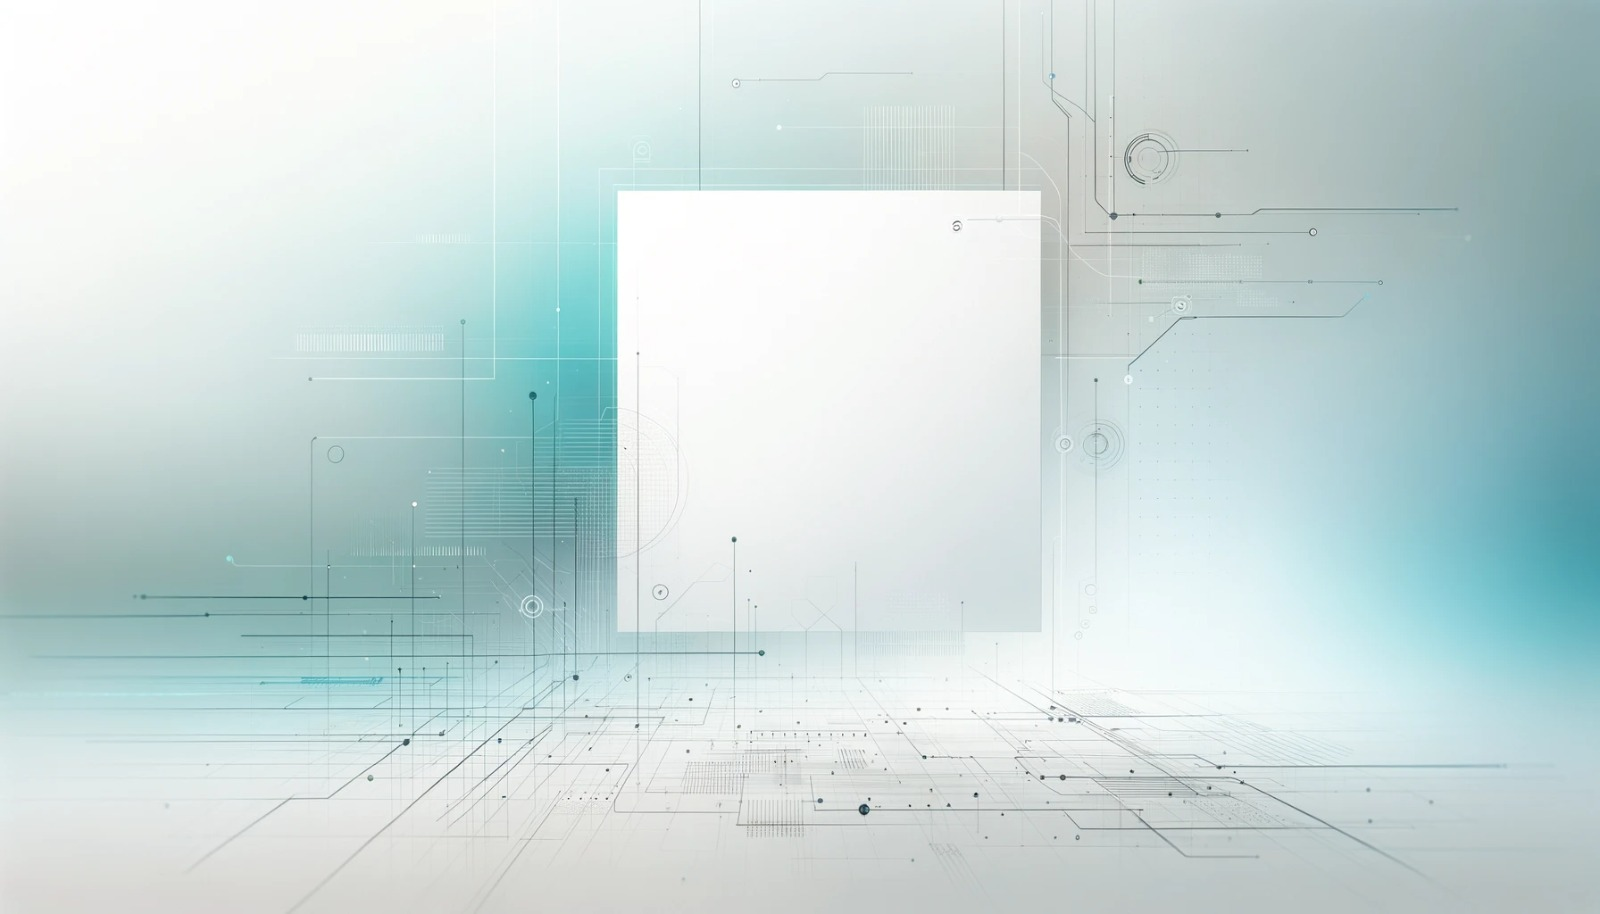
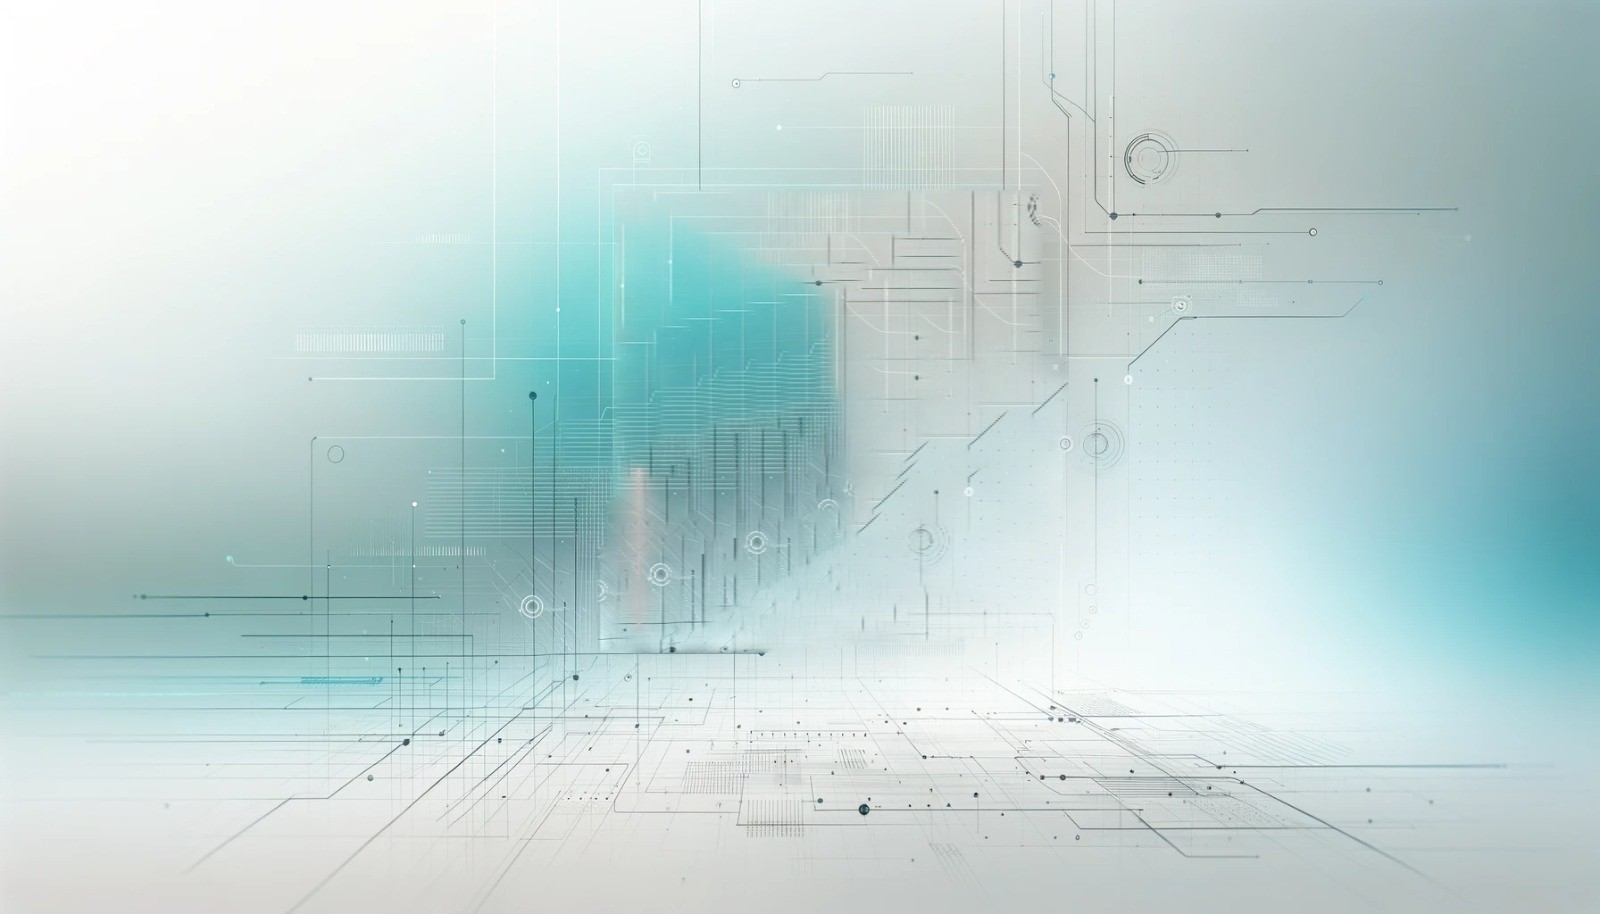
New images and color theme
Made sure every color is coherent with the theme and added new images such as new profile picture and home background.

Changed region(s): [[0.375, 0.1838, 0.6562, 0.7046]]

diff --git a/css/style.css b/css/style.css
@@ -112,7 +112,7 @@ p{
     display: block;
     height: 2px;
     width: 25px;
-    background-color: rgb(255, 102, 0);
+    background-color: #0BCEAF;
     margin: 6px 100%;
 }
 
@@ -193,7 +193,7 @@ p{
 }
 
 .hero-text-1{
-    color: rgb(255, 102, 0);
+    color: black
     font-size: 2.5rem;
     font-weight: 400;
     margin-bottom: 1rem;
@@ -209,7 +209,7 @@ p{
 }
 
 .developer{
-    color: rgb(255, 102, 0);
+    color: black;
     font-size: 1.5em;
     padding: 0px 0px 0px 20px;
 }
@@ -488,7 +488,7 @@ p{
     width: 10rem;
     height: 0.25rem;
     margin-bottom: 1.25rem;
-    background: green;
+    background: #0BCEAF;
     margin-left: auto;
     margin-right: auto;
 }
@@ -653,7 +653,7 @@ footer {
 .developer-sm{
     display: block;
     font-size: 18px; 
-    color: rgb(255, 102, 0)
+    color: black;
 }
 
 .dev-location{ 
@@ -826,8 +826,8 @@ footer {
 }
 
 .card{
-    background-color: rgb(219, 211, 211);
-    color: rgb(59, 66, 59);
+    background-color: #3a3a3a;
+    color: white;
     border-radius: 10px;
     box-shadow: 0 3px 10px black;
     padding: 20px;
@@ -839,7 +839,7 @@ footer {
     display: inline-block;
     padding: 10px 20px;
     cursor: pointer;
-    background: green;
+    background: #0BCEAF;
     color: white;
     border: none;
     border-radius: 10px;
@@ -848,7 +848,7 @@ footer {
 .btn-home{
     background-color: transparent;
     border: 1px black solid;
-    color: rgb(255, 102, 0);
+    color: black;
     font-weight: bold;
 }
 
